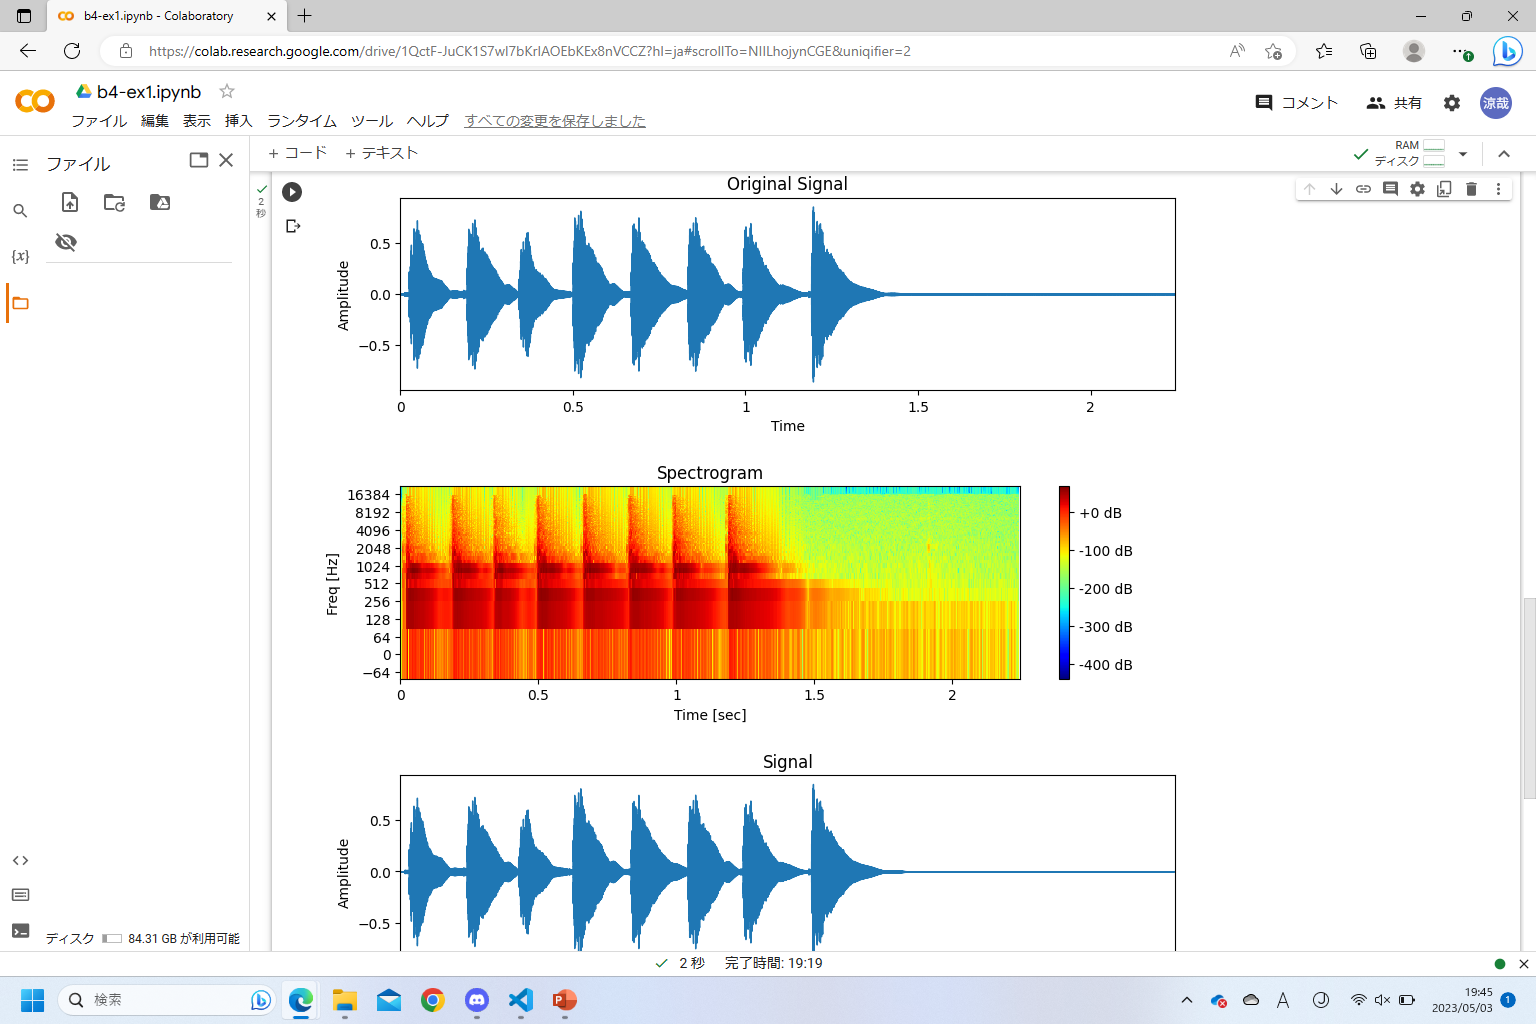
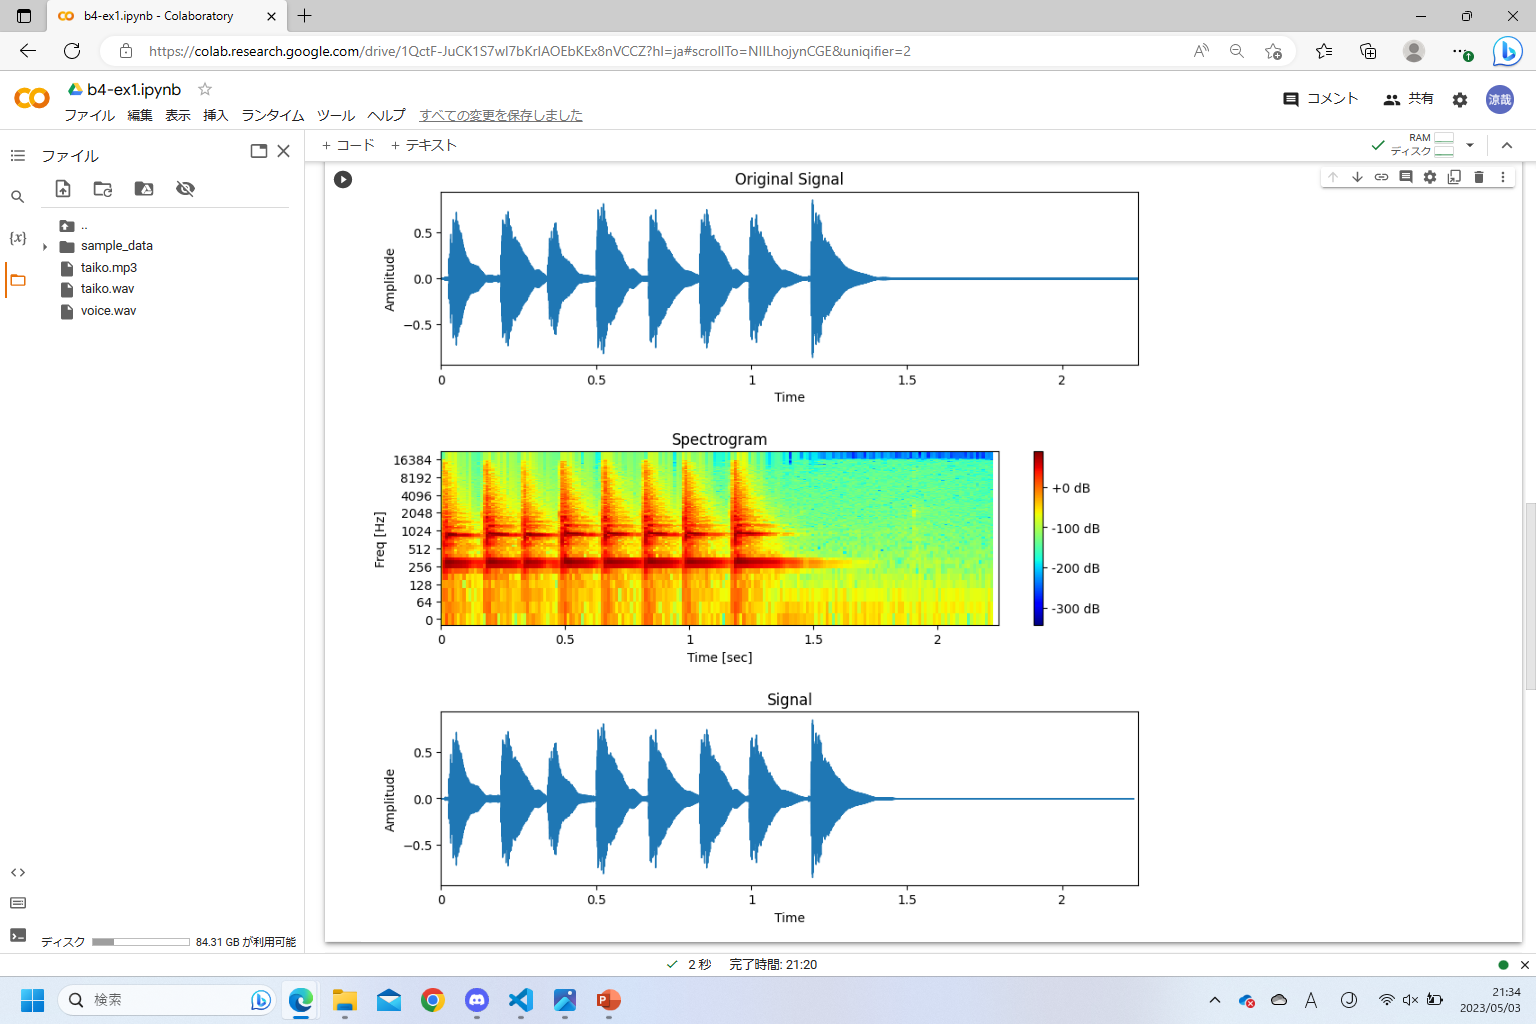
修正版

diff --git a/ex1/r_sakaki/main.py b/ex1/r_sakaki/main.py
@@ -18,8 +18,8 @@ def stft(data, win_size, overlap):
     step = win_size-overlap
 
     for i in range(int((data.shape[0]-overlap)/step)):
-      tmp = data[i*step: i*step+win_size] * win_func
-      tmp_fft = np.fft.rfft(tmp)
+      tmp = data[i*step: i*step+win_size] * win_func  # 窓関数をつける
+      tmp_fft = np.fft.rfft(tmp)    # フーリエ変換
       spec.append(tmp_fft)
     return np.transpose(spec)
 
@@ -29,35 +29,33 @@ def istft(spec, win_size, overlap):
     step = win_size-overlap
     spec = np.transpose(spec)
 
-    tmp_istft = np.fft.irfft(spec)
-    tmp_istft = tmp_istft / win_func
-    tmp_istft = tmp_istft[:, :step]
+    tmp_istft = np.fft.irfft(spec)    # 逆変換
+    tmp_istft = tmp_istft / win_func  # 窓関数を外す
+    tmp_istft = tmp_istft[:, :step]   # オーバーラップを外す
     amp = tmp_istft.reshape(-1)
     return amp
     
 
-
 # 音声の読込
-samplerate, data, time_array = load_file("taiko.mp3")
+samplerate, data, time_array = load_file("sample.mp3")
+
+# 窓関数とオーバーラップの設定
+win_size=1024
+overlap=512
 
 # 短時間フーリエ変換
-### 結果の画像を見るとすぐわかるのですが、マイナスの値が入ってしまっています。
-### どこかが違うと思うのですが、それがわからないです。
-### よろしくお願いします
-win_size=256
-overlap=128
 spectrogram = stft(data, win_size, overlap)
-spectrogram_db = 20*np.log(np.abs(spectrogram))
-# spectrogram_db = librosa.amplitude_to_db(np.abs(spectrogram))
+spectrogram_db = 20*np.log(np.abs(spectrogram))   # db変換
 
 # フーリエ逆変換
 new_data = istft(spectrogram, win_size, overlap)
 
-# 各グラフの表示
+
+# グラフの表示の準備
 fig, ax = plt.subplots(3, 1, figsize=(10,10))
 fig.subplots_adjust(hspace=0.5)
 
-# 元の音声を表示
+# 元の音声の波形を表示
 librosa.display.waveshow(data, sr=samplerate, ax=ax[0])
 ax[0].set(title="Original Signal", ylabel="Amplitude", xlim=[0, time_array[-1]])
 
@@ -65,7 +63,7 @@ ax[0].set(title="Original Signal", ylabel="Amplitude", xlim=[0, time_array[-1]])
 img = librosa.display.specshow(
     spectrogram_db,
     sr=samplerate,
-    hop_length=128,
+    hop_length=win_size-overlap,
     ax=ax[1],
     x_axis="time",
     y_axis="log",
